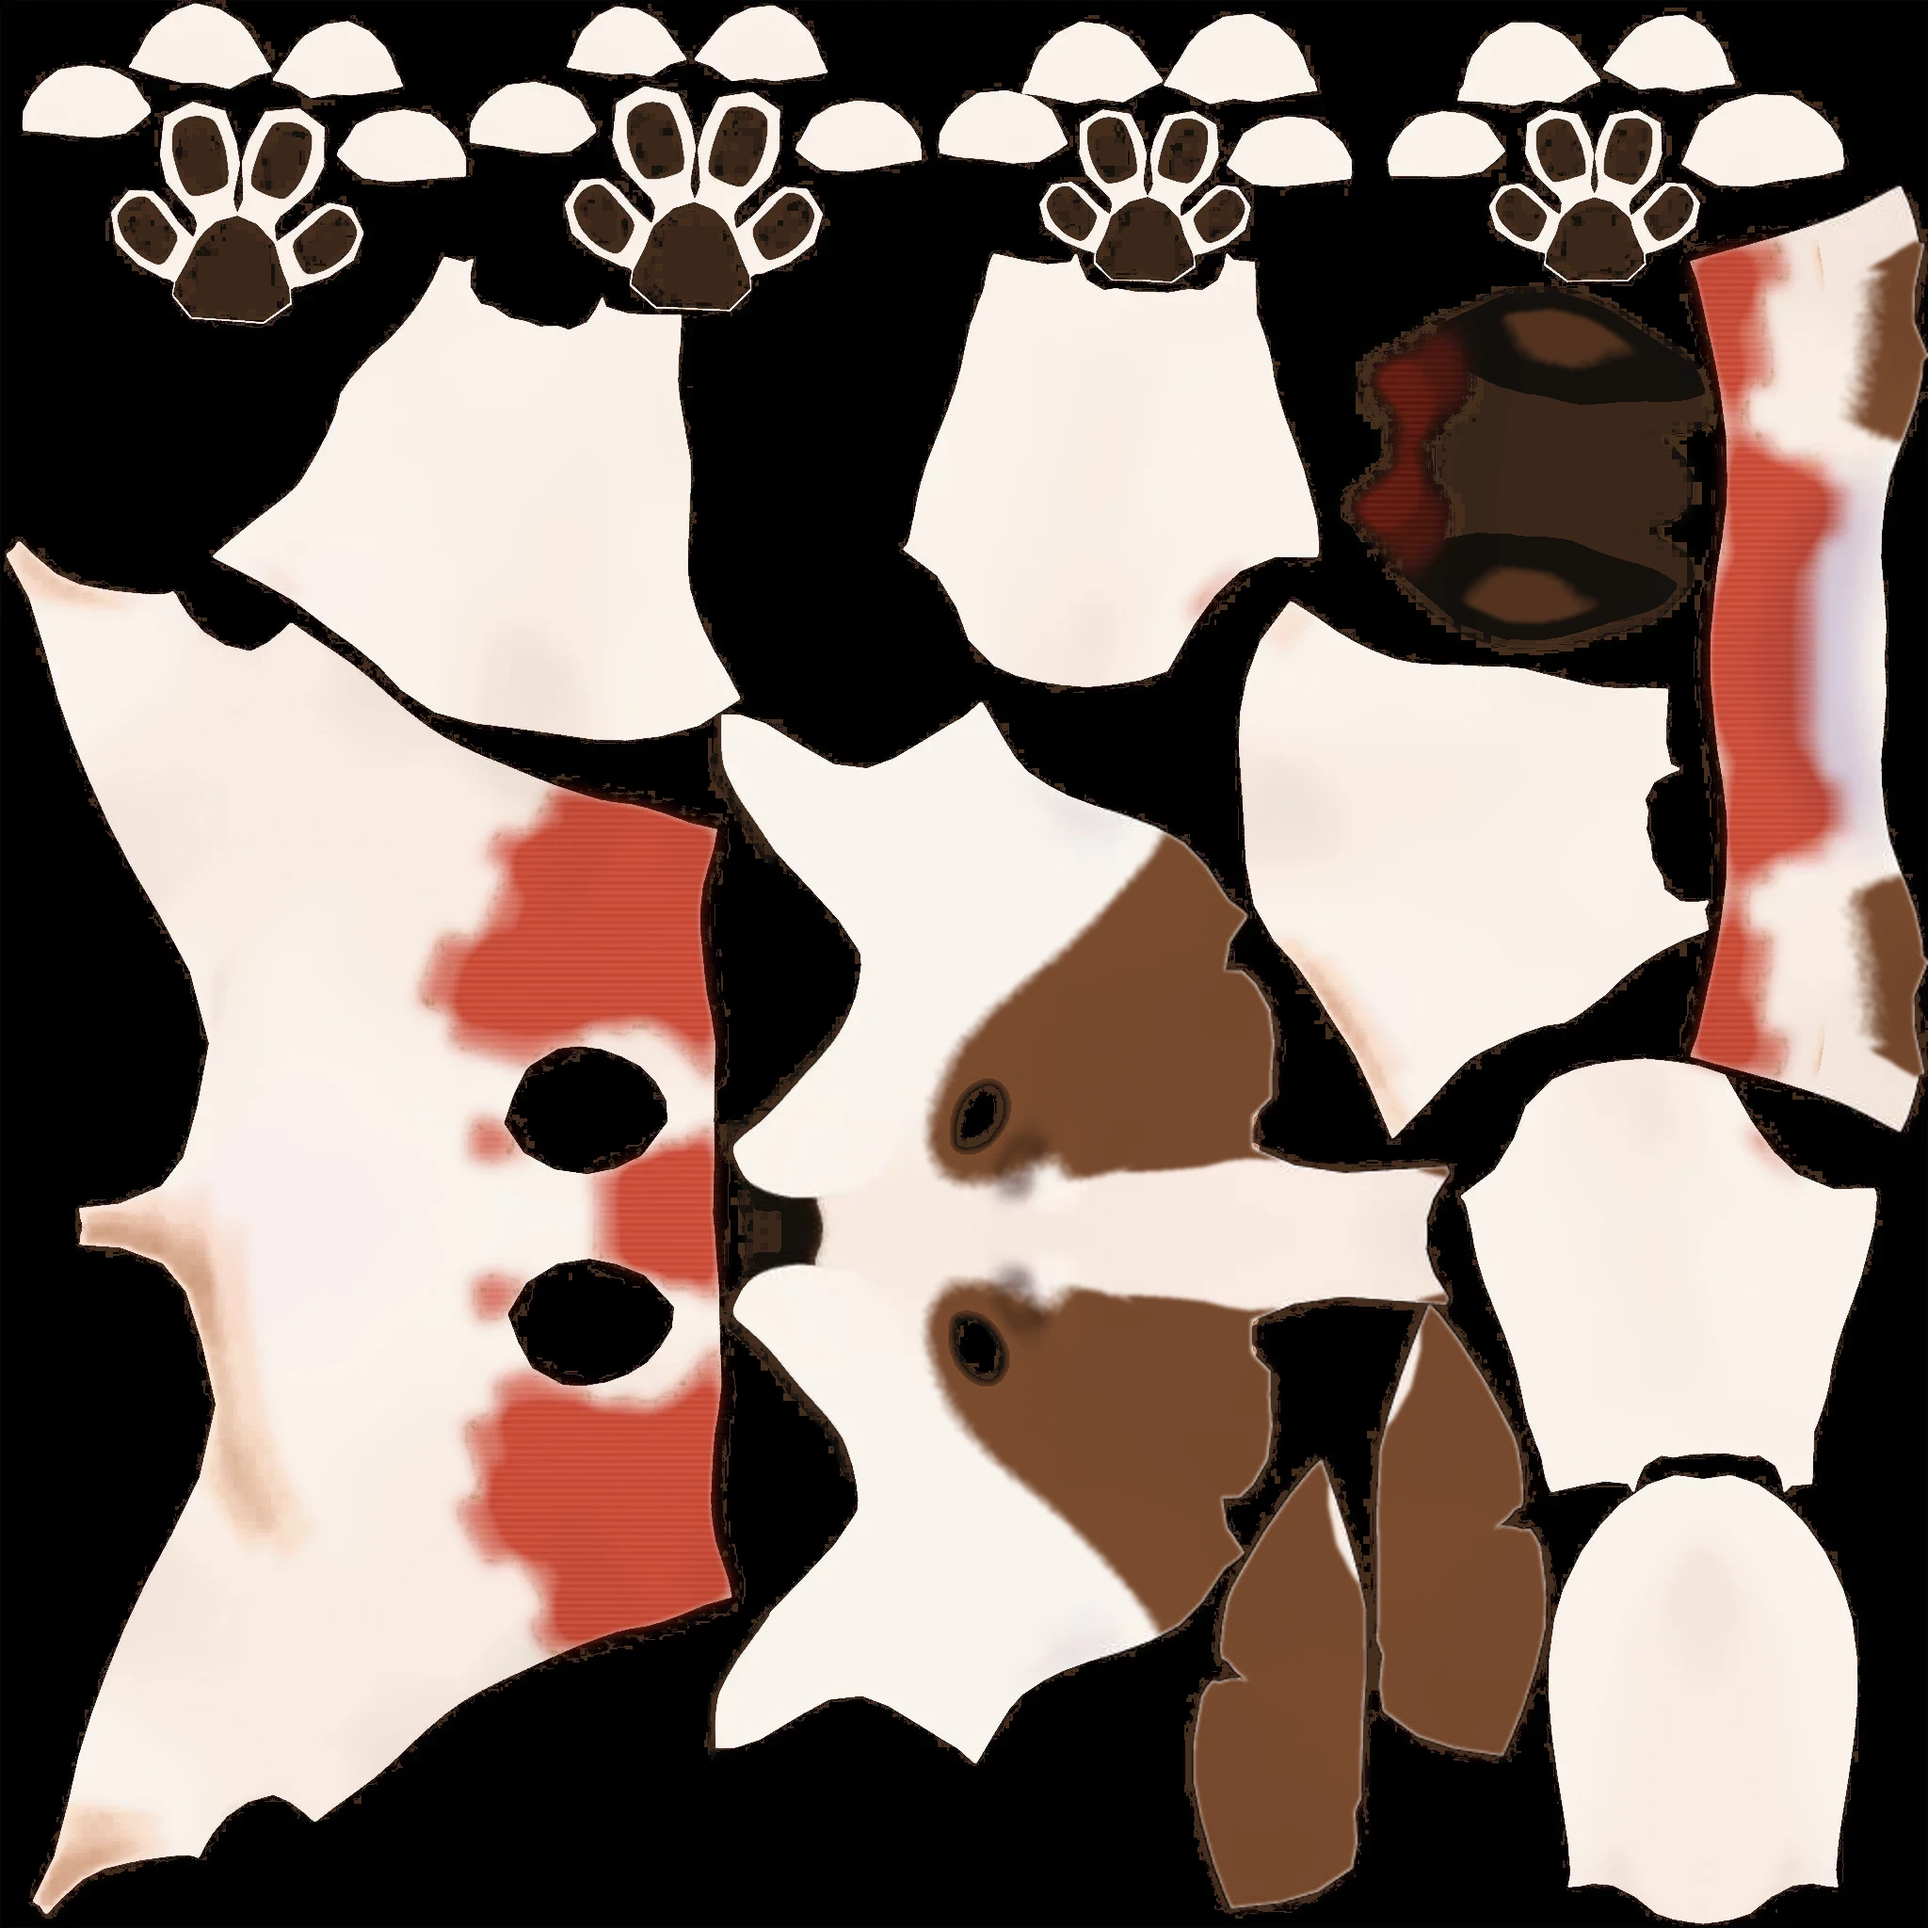
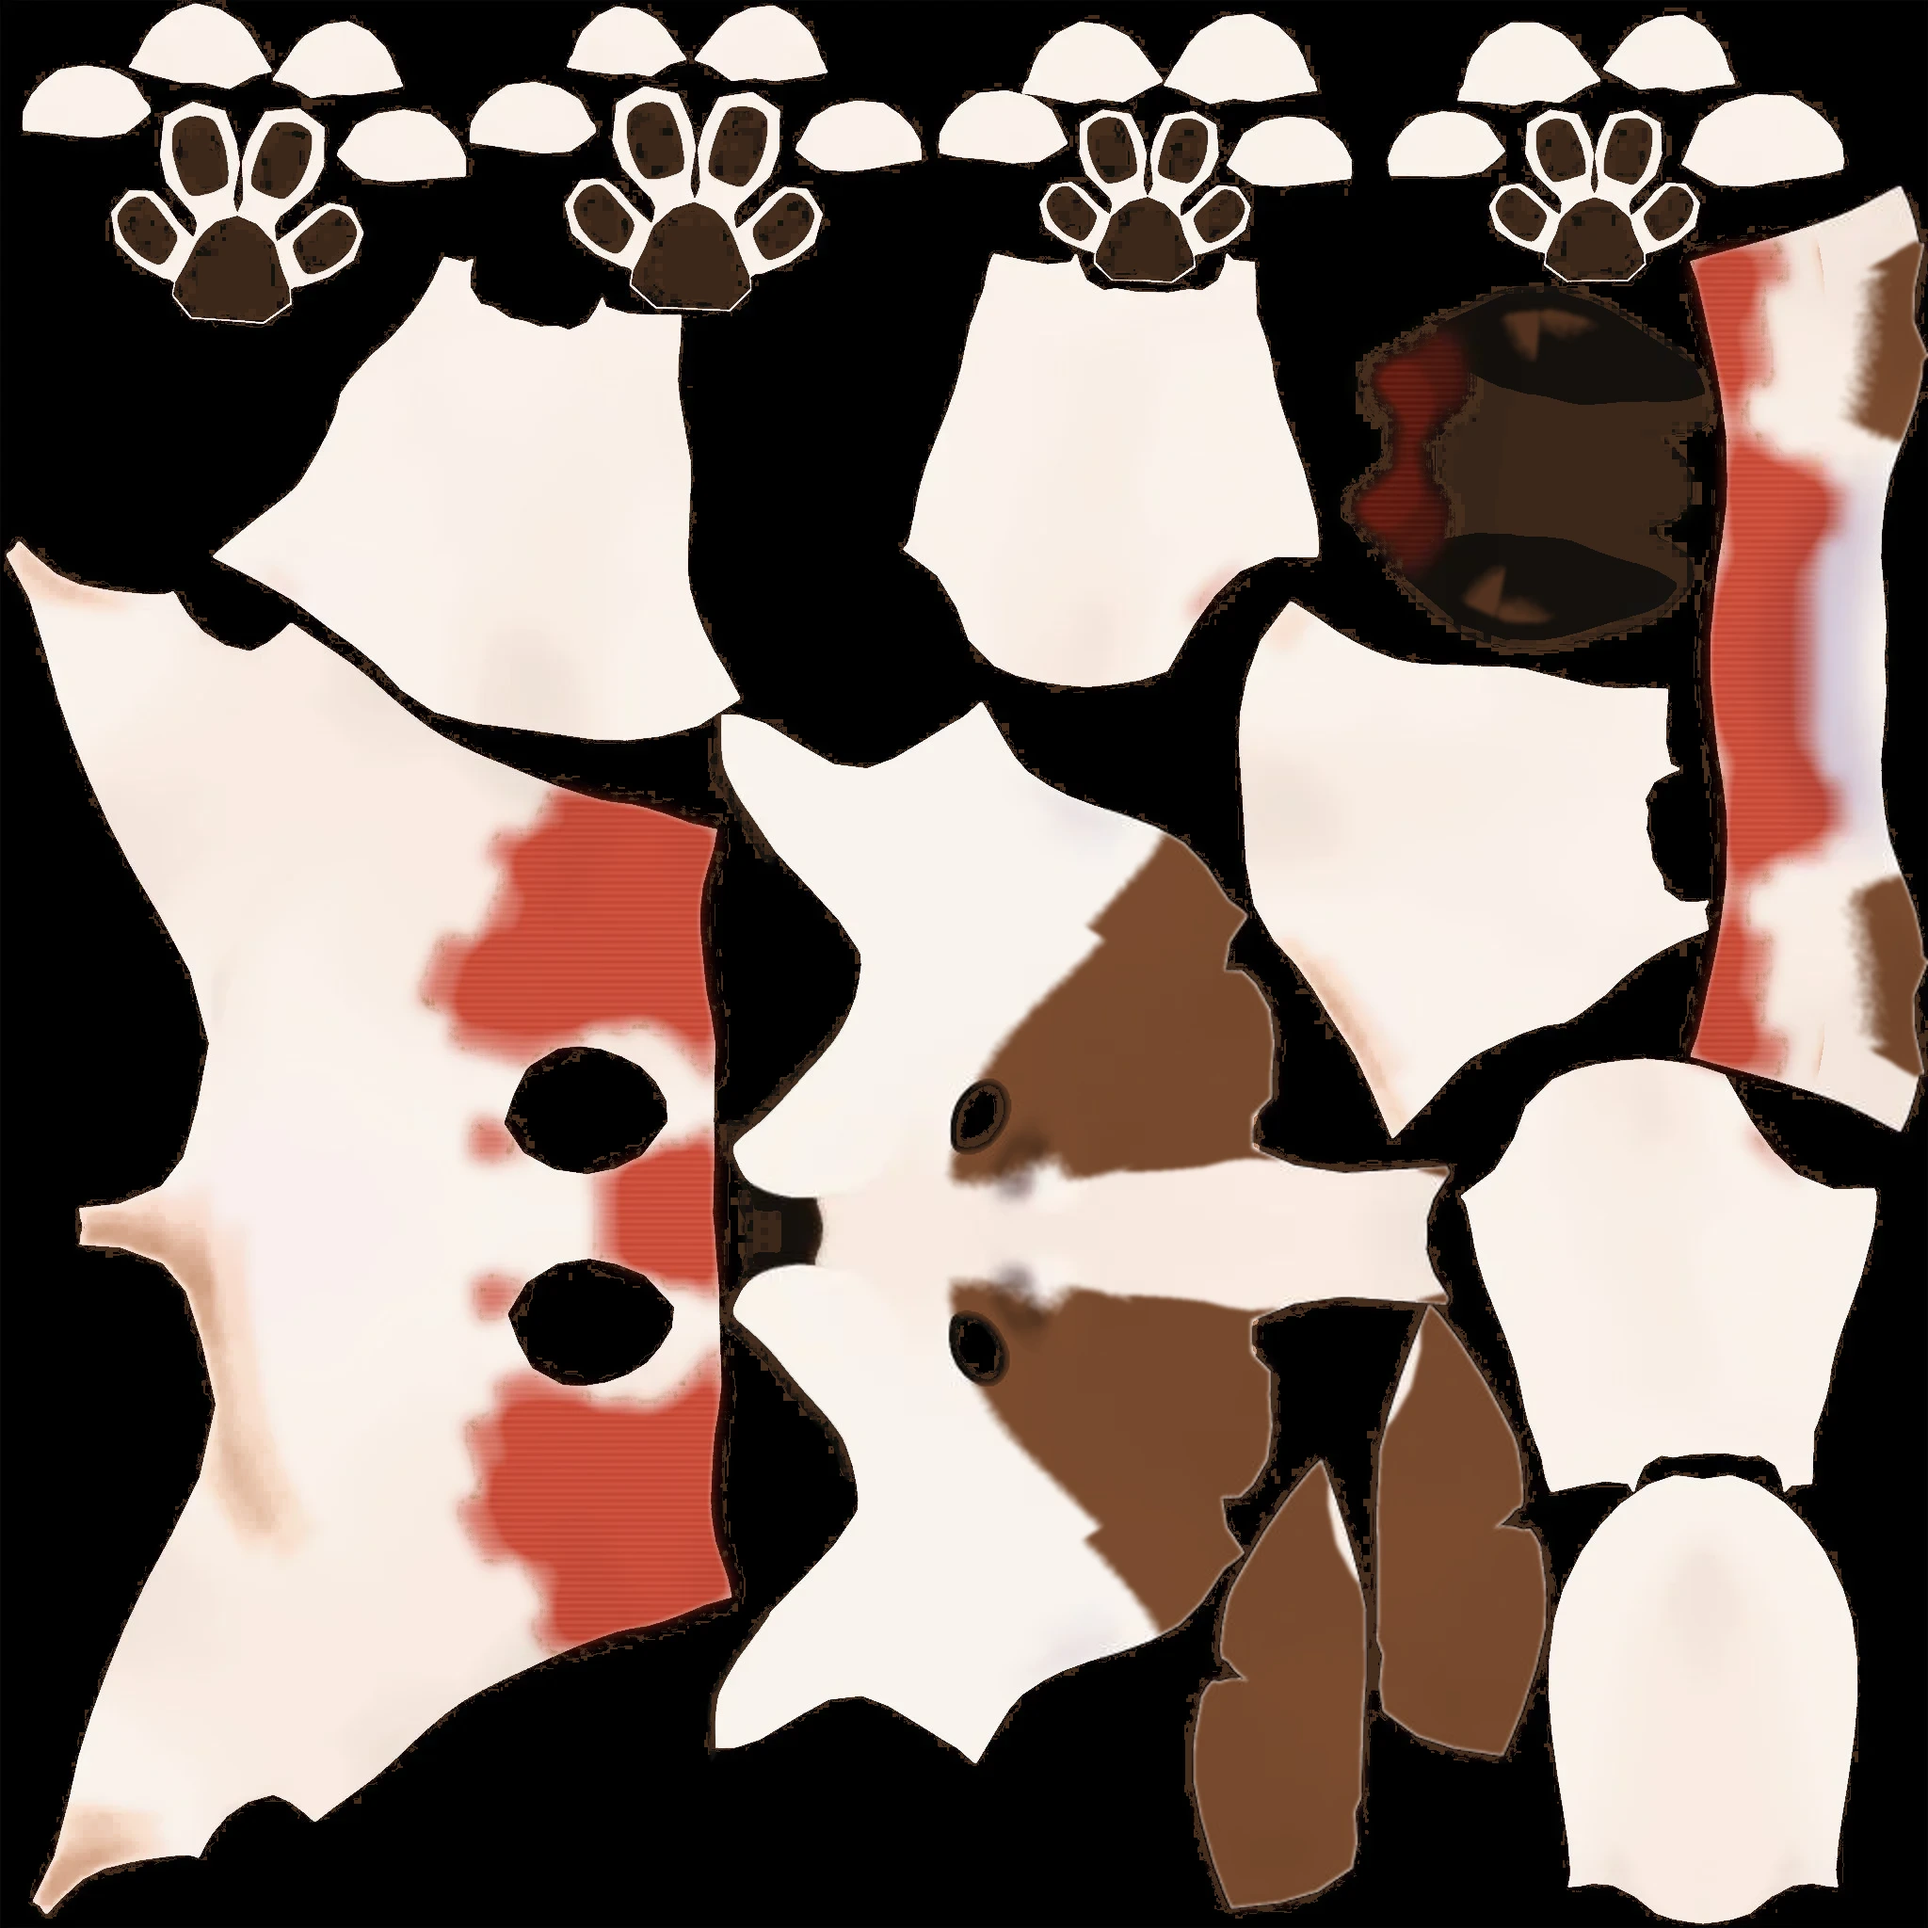
kosmo-museum: собакам — короткие усы, тёплые брови без фиолетового, ровные глаза (моргание фиксированной длины), белые щёки у Стрелки
Claude-Session: https://claude.ai/code/session_01YJBZo4ctwu5nxzdrpfljgu

diff --git a/kosmo-museum/deck/app/index.html b/kosmo-museum/deck/app/index.html
@@ -7960,9 +7960,9 @@ window.mountDog3D = (box, opt = {}) => {
         ${fur ? 'float neck = smoothstep(uNk2.y, uNk2.x, vLp.y) * smoothstep(uNk2.z, uNk2.w, vLp.z); sh = max(sh, neck * .85);' : ''}
         float facing = clamp(dot(normalize(normal), normalize(vViewPosition)), 0., 1.);
         gl_FragColor.rgb *= .72 + .38 * pow(facing, 1.4);
-        vec3 shade = gl_FragColor.rgb * vec3(.8, .76, .95);
+        vec3 shade = gl_FragColor.rgb * vec3(.86, .78, .74);
         vec2 q = mat2(.7071, -.7071, .7071, .7071) * fc / 6.; float d = length(fract(q) - .5); float dk = clamp(1. - lumO / lumD, 0., 1.); float rad = .1 + dk * .5; float dots = 1. - smoothstep(rad - .05, rad + .03, d);
-        vec3 col = mix(gl_FragColor.rgb, shade, sh * mix(.6, .25, uClean)); col = mix(col, col * vec3(.5, .42, .68), dots * smoothstep(.02, .28, dk) * (1. - uClean) * .85);
+        vec3 col = mix(gl_FragColor.rgb, shade, sh * mix(.6, .25, uClean)); col = mix(col, col * vec3(.56, .43, .38), dots * smoothstep(.02, .28, dk) * (1. - uClean) * .85);
         col *= vec3(.97, .93, .9);
         gl_FragColor.rgb = col;`); }; return m; };
   // мягкий «пушистый» материал: бархатный блеск по краям (sheen), мягкий перелив света, тонкие пряди, тень под головой
@@ -8001,9 +8001,9 @@ window.mountDog3D = (box, opt = {}) => {
       const lsh = new THREE.Shape(); lsh.moveTo(-1, .05); lsh.quadraticCurveTo(0, -.85, 1, .05); lsh.lineTo(.92, .2); lsh.quadraticCurveTo(0, -.55, -.92, .2); lsh.lineTo(-1, .05); const lid = new THREE.Mesh(new THREE.ShapeGeometry(lsh, 16), flat(0x2e2226)); lid.scale.setScalar(rr * .9); put(lid, new THREE.Vector3(ec.x, ec.y + rr * .05, ec.z + rr * 1.0)); lid.visible = false; lids.push(lid); lid.renderOrder = 13;
       const cap = new THREE.Mesh(new THREE.SphereGeometry(rr * 1.02, 24, 16), lidMat); put(cap, new THREE.Vector3(ec.x, ec.y, ec.z + rr * .08)); cap.renderOrder = 0; cap.visible = false; lids.push(cap); }
     { const nose = inner.getObjectByName('Nose'), hb = B.Head_M; if (nose && hb){ const nb = new THREE.Box3().setFromObject(nose), n0 = nb.getCenter(new THREE.Vector3()); const pts = [];
-      for (const sd of [-1, 1]) for (let k = 0; k < 3; k++){ const o = new THREE.Vector3(n0.x + sd * rr * (1.2 + k * .15), nb.min.y + rr * (1.6 - k * .3), nb.min.z + rr * .1);
-        const cv = new THREE.QuadraticBezierCurve3(o, o.clone().add(new THREE.Vector3(sd * rr * 1.8, rr * (.5 - k * .35), -rr * .2)), o.clone().add(new THREE.Vector3(sd * rr * (3.4 - k * .25), rr * (-.1 - k * .45), -rr * 1.1)));
-        const g = new THREE.TubeGeometry(cv, 16, rr * .022, 4, false); const m = new THREE.Mesh(g, new THREE.MeshBasicMaterial({ color:0xfaf6f2, transparent:true, opacity:.8, depthTest:false })); m.position.copy(hb.worldToLocal(new THREE.Vector3())); m.quaternion.copy(hb.getWorldQuaternion(new THREE.Quaternion()).invert()); m.renderOrder = 10; m.layers.set(1); hb.add(m); } } }
+      for (const sd of [-1, 1]) for (let k = 0; k < 2; k++){ const o = new THREE.Vector3(n0.x + sd * rr * (1.2 + k * .15), nb.min.y + rr * (1.6 - k * .3), nb.min.z + rr * .1);
+        const cv = new THREE.QuadraticBezierCurve3(o, o.clone().add(new THREE.Vector3(sd * rr * .9, rr * (.25 - k * .2), -rr * .1)), o.clone().add(new THREE.Vector3(sd * rr * (1.7 - k * .2), rr * (-.05 - k * .28), -rr * .55)));
+        const g = new THREE.TubeGeometry(cv, 16, rr * .022, 4, false); const m = new THREE.Mesh(g, new THREE.MeshBasicMaterial({ color:0xfaf6f2, transparent:true, opacity:.55, depthTest:false })); m.position.copy(hb.worldToLocal(new THREE.Vector3())); m.quaternion.copy(hb.getWorldQuaternion(new THREE.Quaternion()).invert()); m.renderOrder = 10; m.layers.set(1); hb.add(m); } } }
     inner.position.copy(c).multiplyScalar(-1); dog.updateMatrixWorld(true); let bb = new THREE.Box3(); inner.traverse(o => { if (o.isSkinnedMesh && o.name === 'Belka'){ o.skeleton.update(); bb = new THREE.Box3().setFromObject(o, true); } }); dog.userData.bb = bb; mixer = new THREE.AnimationMixer(inner); for (const c of g.animations){ smoothClip(c); const ac = mixer.clipAction(c); if (/_(down|up)$/.test(c.name)){ ac.setLoop(THREE.LoopOnce, 1); ac.clampWhenFinished = true; } ACT[c.name] = ac; } mixer.addEventListener('finished', e => { if (e.action === curAct && curAct._rest && curAct._rest.length) run(curAct._rest, .25); }); play(pose, 0); dog.userData.bb0 = boneBox(); dog.userData.np0 = B.Neck1_M ? B.Neck1_M.getWorldPosition(new THREE.Vector3()).sub(dog.position) : null; { const b0 = boneBox(); dog.userData.pad = [bb.min.clone().sub(b0.min), bb.max.clone().sub(b0.max)]; } size(); const go = () => { if (!alive) return; dog.visible = true; enterAt = performance.now(); mood = 'idle'; clearTimeout(moodT); moodT = setTimeout(() => { mood = 'hello'; moodT = setTimeout(() => mood = 'idle', 1800); }, 950); }; if (who === 'strelka'){ dog.visible = false; loadTexS().then(() => { setWho('strelka'); go(); }); } else go(); });
   const FC = { c:new THREE.Vector3(), L:0, ok:false }, _v = new THREE.Vector3();
   function boneBox(){ const bb = new THREE.Box3(); for (const b of Object.values(B)) bb.expandByPoint(b.getWorldPosition(_v)); return bb; }
@@ -8042,7 +8042,7 @@ window.mountDog3D = (box, opt = {}) => {
         float l = dot(texture2D(t, u + vec2(px.x, 0.)).rgb - texture2D(t, u - vec2(px.x, 0.)).rgb, vec3(.33)) , l2 = dot(texture2D(t, u + vec2(0., px.y)).rgb - texture2D(t, u - vec2(0., px.y)).rgb, vec3(.33));
         float ae = abs(texture2D(t, u + vec2(px.x * 1.5, 0.)).a - texture2D(t, u - vec2(px.x * 1.5, 0.)).a) + abs(texture2D(t, u + vec2(0., px.y * 1.5)).a - texture2D(t, u - vec2(0., px.y * 1.5)).a);
         float ink = smoothstep(.12, .3, length(vec2(l, l2))) * .45 * step(.5, n(u * 160.) + .3);
-        col = mix(col, col * vec3(.38, .3, .42), ink);
+        col = mix(col, col * vec3(.38, .3, .28), ink);
         // белые штрихи-«волоски» вдоль края силуэта
         float edge = smoothstep(.05, .6, ae); float hair = step(.72, n(vec2(u.x * 420. + u.y * 60., u.y * 70.)));
         col = mix(col, vec3(1.6, 1.5, 1.45), edge * hair * .9);
@@ -8050,7 +8050,7 @@ window.mountDog3D = (box, opt = {}) => {
         // полутон поверх мазков: точки растут в тенях
         float L = dot(col, vec3(.299, .587, .114)); vec2 fq = mat2(.7071, -.7071, .7071, .7071) * (u / px) / 6.; float dd = length(fract(fq) - .5);
         float dk2 = smoothstep(.48, .12, L); float rd = .04 + dk2 * .36; float hdot = 1. - smoothstep(rd - .05, rd + .03, dd);
-        col = mix(col, col * vec3(.68, .6, .8), hdot * smoothstep(.05, .35, dk2) * a);
+        col = mix(col, col * vec3(.72, .6, .54), hdot * smoothstep(.05, .35, dk2) * a);
         float grain = h(floor(u / px)) * .06 - .03;
         float alpha = max(a, edge * hair * .9);
         gl_FragColor = vec4(col + grain, alpha);
@@ -8079,7 +8079,7 @@ window.mountDog3D = (box, opt = {}) => {
   (function loop(now){ if (!alive) return; requestAnimationFrame(loop); if (!dog){ return; } if (!inView || document.hidden || !box.offsetParent || box.closest('.off')){ return; } const t = (now - t0) / 1000;
     const fdt = Math.min(.1, Math.max(0, t - (loop.pt || t))); loop.pt = t; const kM = 1 - Math.exp(-fdt * 3.2), kL = 1 - Math.exp(-fdt * 1.6), f60 = fdt * 60;
     const M = MOODS[mood] || {}; for (const n of NAMES){ tgt[n] = M[n] || 0; cur[n] = (cur[n] || 0) + (tgt[n] - (cur[n] || 0)) * kM; }
-    blinkT -= fdt; if (blinkT < 0){ blinkV = 1; blinkT = Math.random() < .25 ? .22 : 2.2 + Math.random() * 3; } blinkV *= Math.pow(.78, f60);
+    blinkT -= fdt; if (blinkT < 0){ blinkV = .13; blinkT = Math.random() < .12 ? .3 : 2.6 + Math.random() * 3.4; } blinkV = Math.max(0, blinkV - fdt); /* моргание фиксированной длины — не зависит от частоты кадров */
     /* характер: Белка спокойнее и плавнее, Стрелка живее — чаще смотрит по сторонам и дёргает ушами */
     const P = who === 'strelka' ? { gx:1.35, gy:.55, g0:.9, g1:1.8, e0:1.4, e1:2.8, ev:.75, k:.85, tl:.75, es:.09, ef:2.3 } : { gx:1.1, gy:.45, g0:1.4, g1:2.6, e0:2.6, e1:4.2, ev:.55, k:.7, tl:.6, es:.05, ef:1.4 };
     life.g -= fdt; if (life.g < 0){ life.gx = (Math.random() - .5) * P.gx; life.gy = (Math.random() - .5) * P.gy; life.g = P.g0 + Math.random() * P.g1; }
@@ -8087,8 +8087,8 @@ window.mountDog3D = (box, opt = {}) => {
     life.c -= fdt; if (life.c < 0){ life.ct = Math.random() < .6 ? (Math.random() - .5) * .55 : 0; life.c = 2 + Math.random() * 3; }
     life.x += (life.gx - life.x) * kL; life.y += (life.gy - life.y) * kL; life.tilt += (life.ct - life.tilt) * kL * .8;
     for (const n of ['L_mouthup', 'R_mouthup', 'L_mouthwide', 'R_mouthwide', 'brows_up', 'brows_down', 'brows_sad', 'brows_angry']) setW(n, cur[n]);
-    const bl = Math.max(M.blink || 0, blinkV > .05 ? Math.min(1, blinkV * 1.4) : 0), closed = bl > .55;
-    setW('blink', 0); for (const e of eyes) e.visible = !closed; setW('big', cur.big); for (const sp of sparks) sp.visible = !closed; for (const l of lids) l.visible = closed;
+    const bl = Math.max(M.blink || 0, blinkV > 0 ? 1 : 0), closed = bl > .55;
+    setW('blink', 0); for (const e of eyes) e.visible = !closed; setW('big', .62); /* размер глаз постоянный — при смене настроения не «прыгают» */ for (const sp of sparks) sp.visible = !closed; for (const l of lids) l.visible = closed;
     /* рот иногда плавно приоткрывается — как будто дышит или улыбается; без быстрого «шлёпанья» */
     life.m = (life.m ?? 2) - fdt; if (life.m < 0){ life.mt = .4 + Math.random() * .25; life.mh = .8 + Math.random() * .8; life.m = (who === 'strelka' ? 2.6 : 3.4) + Math.random() * 3; }
     if (life.mh > 0){ life.mh -= fdt; if (life.mh <= 0) life.mt = 0; }
